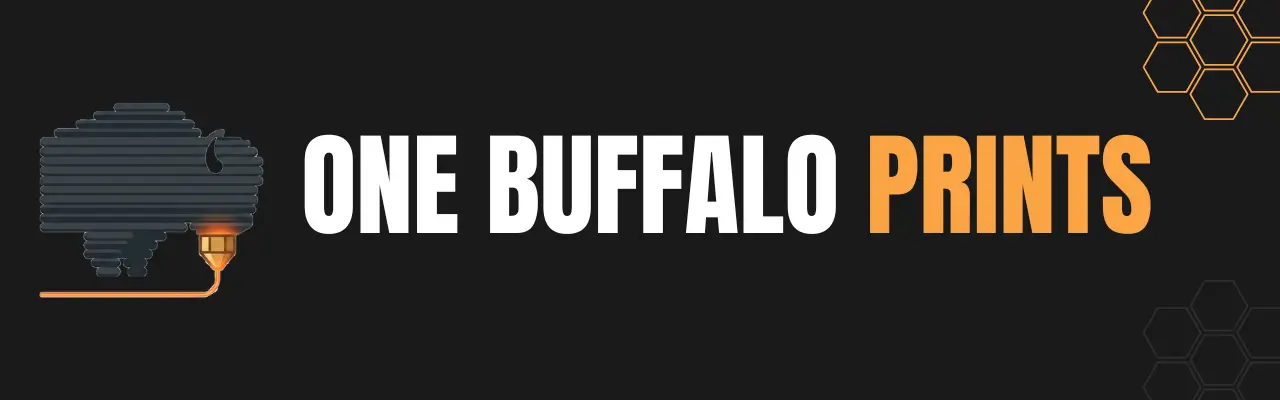
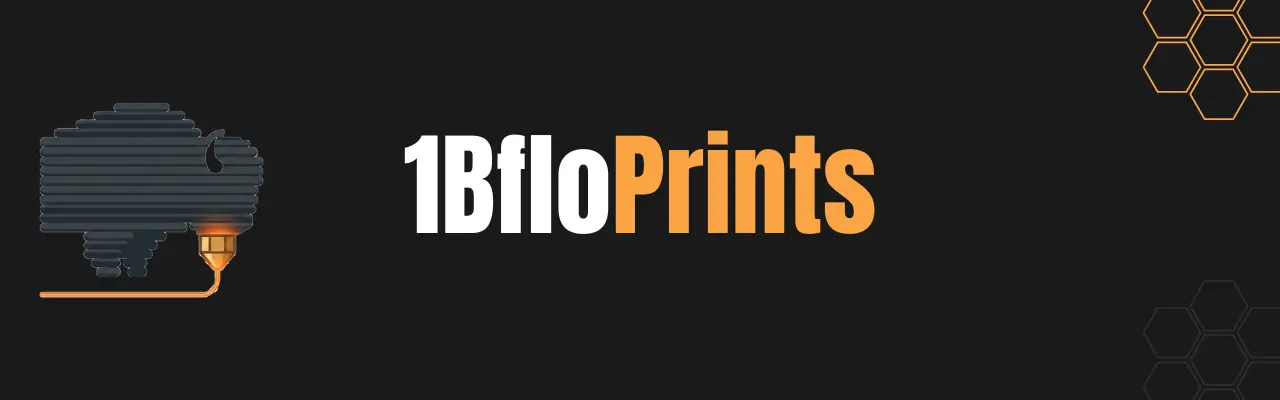
chore: rebrand One Buffalo Labs → 1BfloPrints

Changed region(s): [[0.2188, 0.33, 0.9062, 0.6]]

diff --git a/src/app/services/3d-printing/page.tsx b/src/app/services/3d-printing/page.tsx
@@ -27,6 +27,7 @@ export const metadata: Metadata = generateMetadata({
     'small batch manufacturing',
     '3D printing services',
     'One Buffalo Prints',
+    '1BfloPrints'
   ],
   urlPath: '/services/3d-printing',
 });
@@ -59,10 +60,10 @@ const printingOfferings = [
   },
   {
     icon: faBoxOpen,
-    title: 'One Buffalo Prints',
+    title: '1BfloPrints',
     description:
       'Shop our own in-house catalog of custom toys, statues, and practical household mods. See something you like on our open-source repo? We can print and ship it to you.',
-    actionLink: 'https://github.com/OneBuffaloLabs/one-buffalo-prints',
+    actionLink: 'https://github.com/OneBuffaloLabs/1BfloPrints',
     actionText: 'Browse the repo',
   },
 ];

diff --git a/src/app/services/page.tsx b/src/app/services/page.tsx
@@ -93,6 +93,7 @@ const serviceCategories = [
       'Custom Parts & Fixes',
       'Small Batch Production',
       'One Buffalo Prints Catalog',
+      '1BfloPrints Catalog',
     ],
     ctaText: 'Explore 3D Printing',
   },